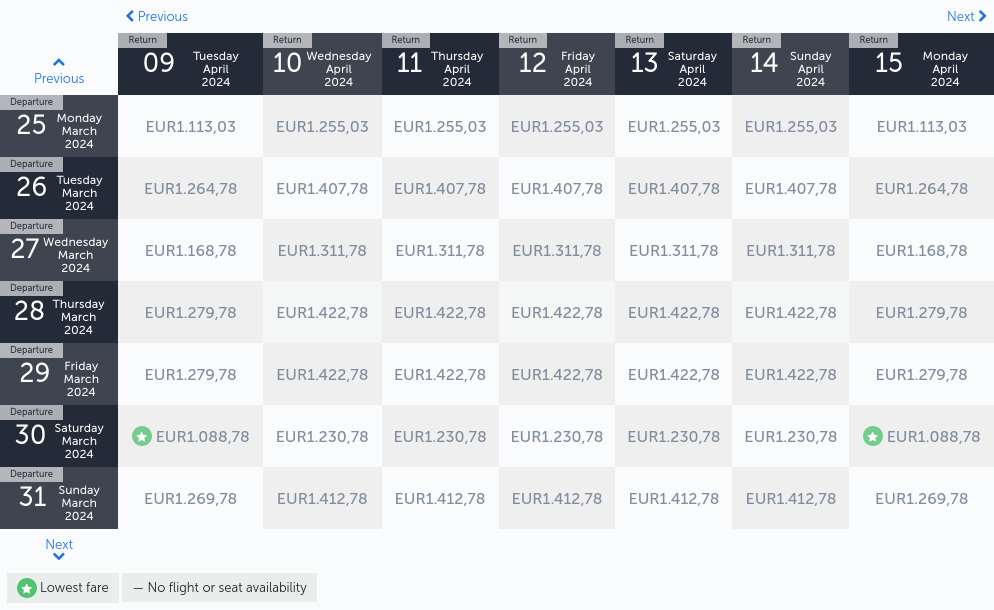
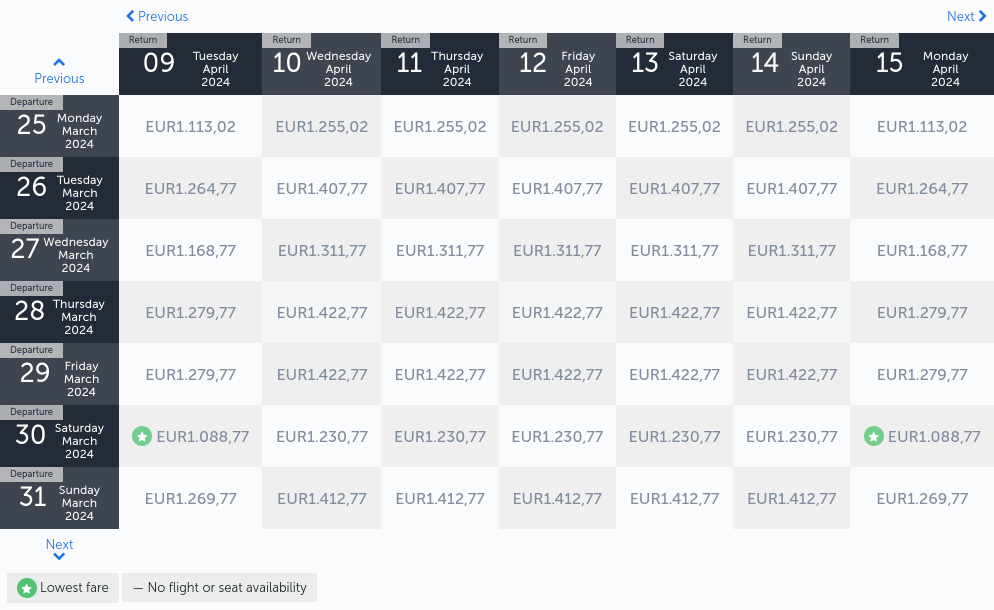
Latest scraping taiwan: Thu Jul 20 04:38:40 UTC 2023

diff --git a/scrapes/taiwan/turkish-airlines.md b/scrapes/taiwan/turkish-airlines.md
@@ -2,13 +2,13 @@
 | --- | --- |     |     |     |     |     |     | --- | --- | --- | --- | --- | --- |
 | Previous | Return<br><br>09 Tuesday April 2024 | Return<br><br>10 Wednesday April 2024 | Return<br><br>11 Thursday April 2024 | Return<br><br>12 Friday April 2024 | Return<br><br>13 Saturday April 2024 | Return<br><br>14 Sunday April 2024 | Return<br><br>15 Monday April 2024 |
 | --- | --- | --- | --- | --- | --- | --- | --- |
-| Departure<br><br>25 Monday March 2024 | 1.113,03 | 1.255,03 | 1.255,03 | 1.255,03 | 1.255,03 | 1.255,03 | 1.113,03 |
-| Departure<br><br>26 Tuesday March 2024 | 1.264,78 | 1.407,78 | 1.407,78 | 1.407,78 | 1.407,78 | 1.407,78 | 1.264,78 |
-| Departure<br><br>27 Wednesday March 2024 | 1.168,78 | 1.311,78 | 1.311,78 | 1.311,78 | 1.311,78 | 1.311,78 | 1.168,78 |
-| Departure<br><br>28 Thursday March 2024 | 1.279,78 | 1.422,78 | 1.422,78 | 1.422,78 | 1.422,78 | 1.422,78 | 1.279,78 |
-| Departure<br><br>29 Friday March 2024 | 1.279,78 | 1.422,78 | 1.422,78 | 1.422,78 | 1.422,78 | 1.422,78 | 1.279,78 |
-| Departure<br><br>30 Saturday March 2024 | 1.088,78 | 1.230,78 | 1.230,78 | 1.230,78 | 1.230,78 | 1.230,78 | 1.088,78 |
-| Departure<br><br>31 Sunday March 2024 | 1.269,78 | 1.412,78 | 1.412,78 | 1.412,78 | 1.412,78 | 1.412,78 | 1.269,78 |
+| Departure<br><br>25 Monday March 2024 | 1.113,02 | 1.255,02 | 1.255,02 | 1.255,02 | 1.255,02 | 1.255,02 | 1.113,02 |
+| Departure<br><br>26 Tuesday March 2024 | 1.264,77 | 1.407,77 | 1.407,77 | 1.407,77 | 1.407,77 | 1.407,77 | 1.264,77 |
+| Departure<br><br>27 Wednesday March 2024 | 1.168,77 | 1.311,77 | 1.311,77 | 1.311,77 | 1.311,77 | 1.311,77 | 1.168,77 |
+| Departure<br><br>28 Thursday March 2024 | 1.279,77 | 1.422,77 | 1.422,77 | 1.422,77 | 1.422,77 | 1.422,77 | 1.279,77 |
+| Departure<br><br>29 Friday March 2024 | 1.279,77 | 1.422,77 | 1.422,77 | 1.422,77 | 1.422,77 | 1.422,77 | 1.279,77 |
+| Departure<br><br>30 Saturday March 2024 | 1.088,77 | 1.230,77 | 1.230,77 | 1.230,77 | 1.230,77 | 1.230,77 | 1.088,77 |
+| Departure<br><br>31 Sunday March 2024 | 1.269,77 | 1.412,77 | 1.412,77 | 1.412,77 | 1.412,77 | 1.412,77 | 1.269,77 |
 | Next |
 | Lowest fare — No flight or seat availability |     |     |     |     |     |     |     |
 
